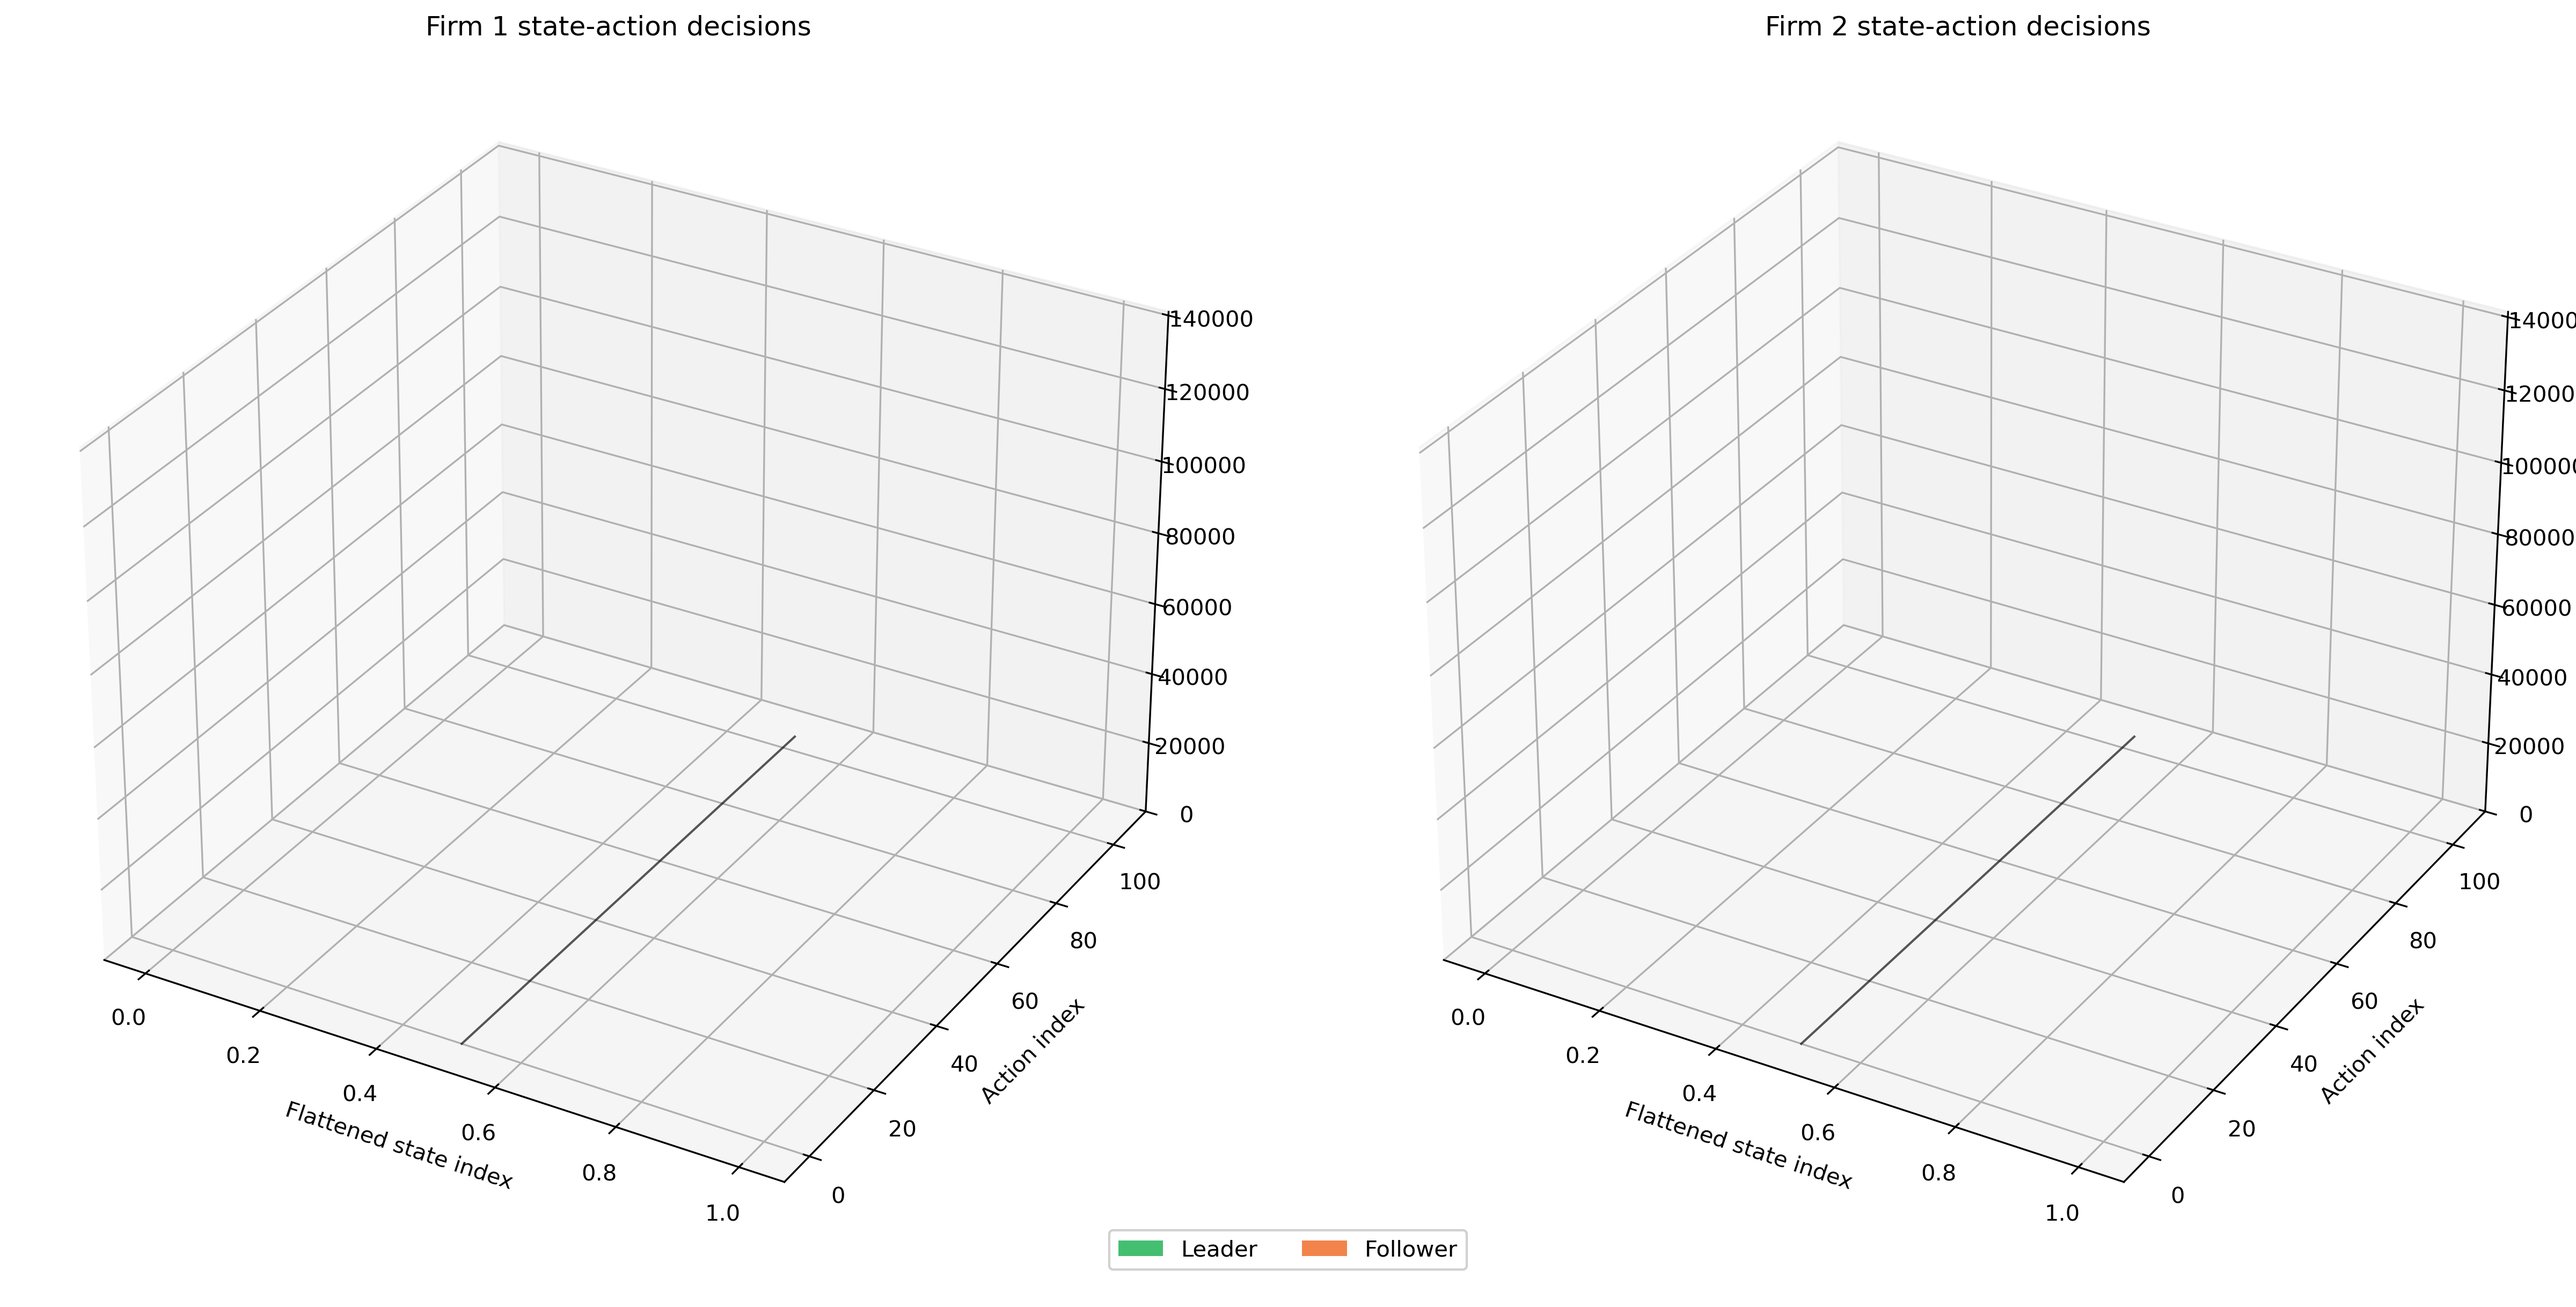
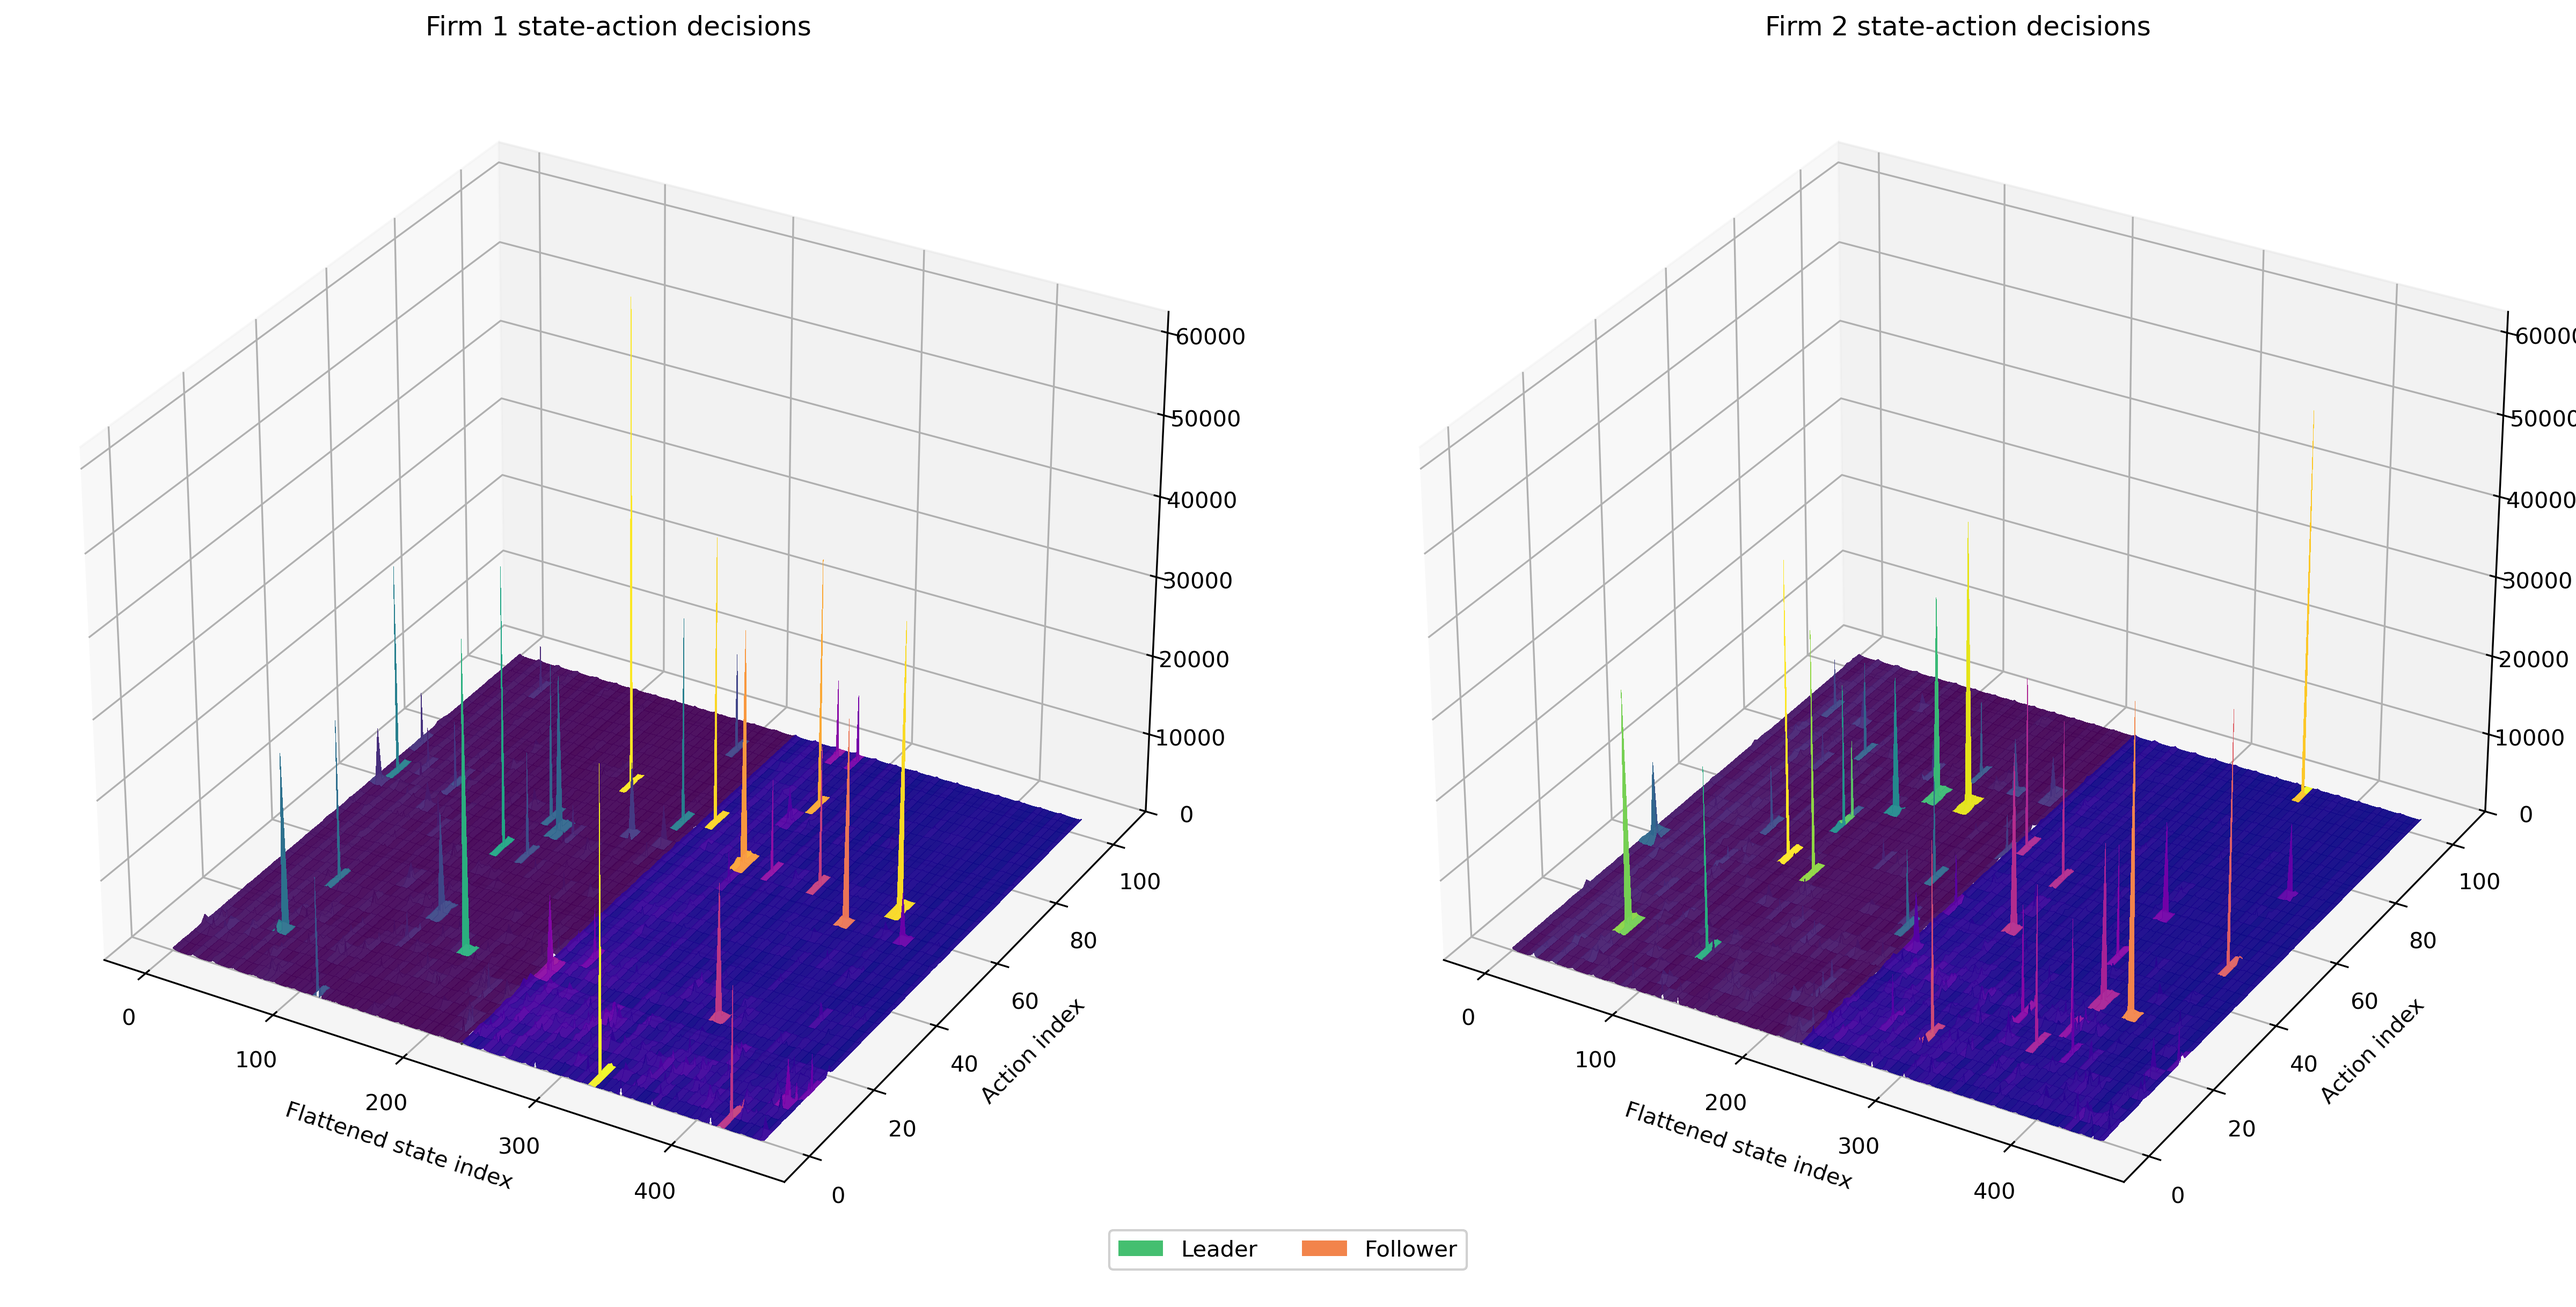
Clean Updt

diff --git a/Main.py b/Main.py
@@ -5,7 +5,7 @@ from Settings import Config
 import numpy as np
 import time
 from tqdm import tqdm
-from Visualize import plotting, leaderplots,strategy,Welfare_Plot,Routine_Results,reactions,plot_visit_counts_3d
+from Visualize import plotting, leaderplots,strategy,Welfare_Plot,Routine_Results,reactions,plot_visit_counts_3d,MatrixAnimation
 import json
 import random
 from Helper import format_eta,NumpyEncoder
@@ -94,7 +94,7 @@ def Simulate(ClusterTest=False,Progress=True):
         State_log.append([prices[0]]*firms)
 
     Industry_m = initialM
-    Downsample_len = 2000
+    Downsample_len = 10000
         #fixed experimentation log
     Profits_explog = []
     Price_explog = []
@@ -120,7 +120,7 @@ def Simulate(ClusterTest=False,Progress=True):
     Round = 0
     Stat_log_Counter = 0
     Firm_Stationarity = [0]
-    Stationarity_Target = 200000
+    Stationarity_Target = 100000
     training_start = time.perf_counter()
     No_ConvergCap = None
     No_Convergence = False
@@ -283,7 +283,8 @@ def Simulate(ClusterTest=False,Progress=True):
                 Profits_explog.append(np.append(Profit,LeaderIndex))
                 Price_explog.append(np.append(Price_Actions,LeaderIndex))
                 Invest_explog.append(np.append(Investment_Actions,LeaderIndex))
-             
+                
+                
                 
                 #See how many entries are recorded past experimentation (not downsampled)
                 if Round>ExpLen:Stat_log_Counter+=1
@@ -294,8 +295,7 @@ def Simulate(ClusterTest=False,Progress=True):
                 CS_Real.append(CS_R)
                 M_Theory.append(M_Expected)
                 M_Real.append(Industry_m)
-
-
+                
             if min(Firm_Stationarity) == 0 and not No_Convergence:
                 #if Q matrix changes dump stat log
                 Profits_statlog = []
@@ -345,9 +345,10 @@ def Simulate(ClusterTest=False,Progress=True):
     #Process results
     if args.plot or not ClusterTest:
         plot_start = time.perf_counter()
+   
         plotting((Profits_explog,Profits_statlog), (Price_explog,Price_statlog), (Invest_explog,Invest_statlog),config,Downsample_len,Stat_log_Counter)
         if config.investments_count>1 and firms>1:leaderplots((Profits_explog,Profits_statlog), (Price_explog,Price_statlog), (Invest_explog,Invest_statlog), config, Downsample_len,Stat_log_Counter)
-        plot_visit_counts_3d(Firms)
+        #plot_visit_counts_3d(Firms)
         strategy(State_logs,Firms,config)
         Welfare_Plot(CS_Theory,CS_Real,M_Theory,M_Real)
         reactions(Firms,Possible_States,Possible_Actions,config)

diff --git a/Visualize.py b/Visualize.py
@@ -1,7 +1,7 @@
 import matplotlib.pyplot as plt
 import numpy as np
 from matplotlib.ticker import MaxNLocator
-from matplotlib.patches import Patch
+from matplotlib.patches import Patch, Rectangle
 from matplotlib.lines import Line2D
 import matplotlib.cm as cm
 from Helper import block_average_2d
@@ -12,6 +12,7 @@ import pandas as pd
 from collections import defaultdict
 import seaborn as sns
 from matplotlib.colors import Normalize, ListedColormap
+from matplotlib.animation import FuncAnimation
 
 def add_equilibrium_lines(ax, title, config, label_x,linewidth=1.2,size=8,borderWidth=0.5):
     monopoly_colour = '#C62828'

diff --git a/Settings.py b/Settings.py
@@ -73,7 +73,7 @@ class Config:
 
         #initialize exploration length (needed on init so parameters input can be account for before calculating below)
         #based on above values     _States_                      _actions_             visit each ~X times
-        self.explorationlen = max((self.prices_count**(self.firms*self.lags)) * 2 * (self.prices_count*self.investments_count) * 300,1000000)
+        self.explorationlen = max((self.prices_count**(self.firms*self.lags)) * 2 * (self.prices_count*self.investments_count) * 10,1000000)
         self.epsilon_decay = -1/(self.explorationlen)
 
 
